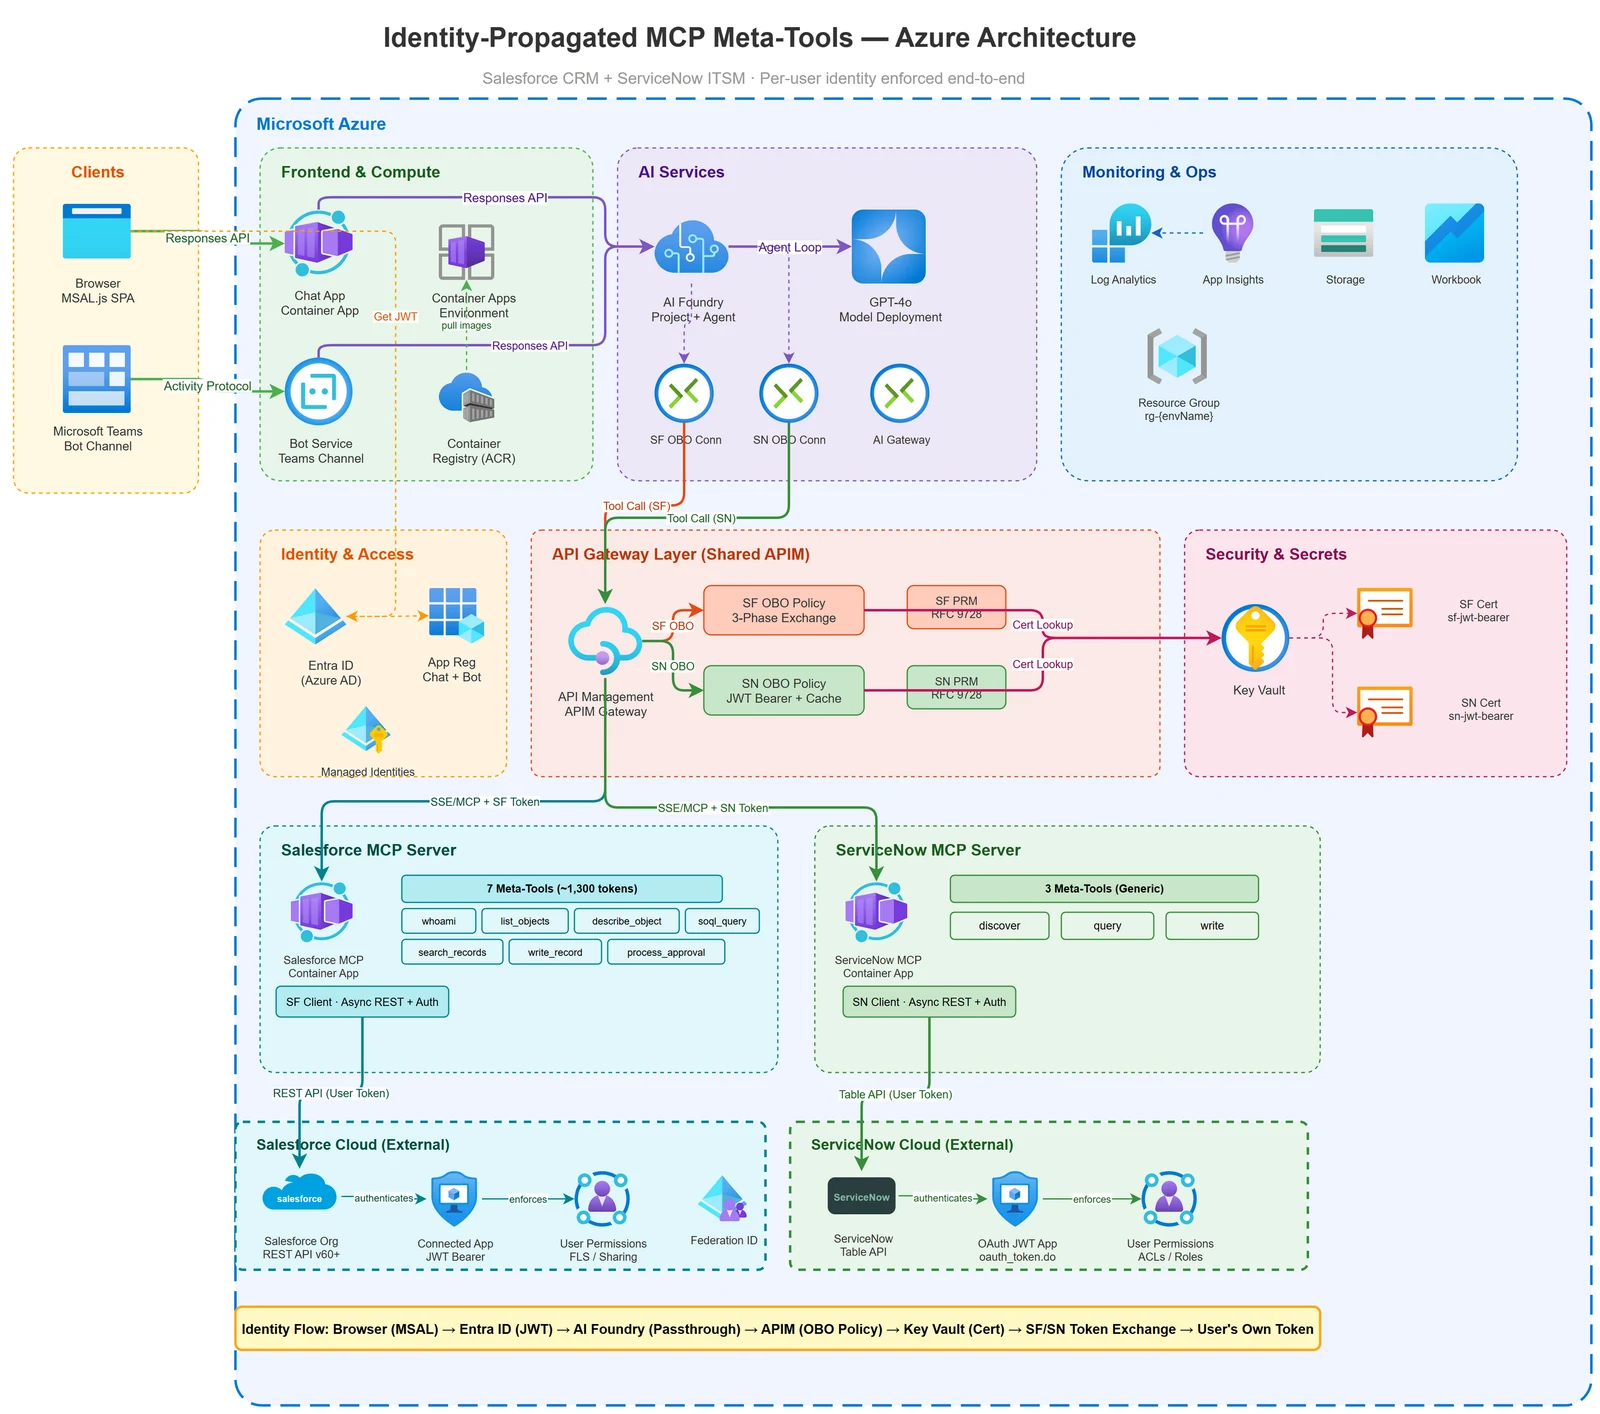
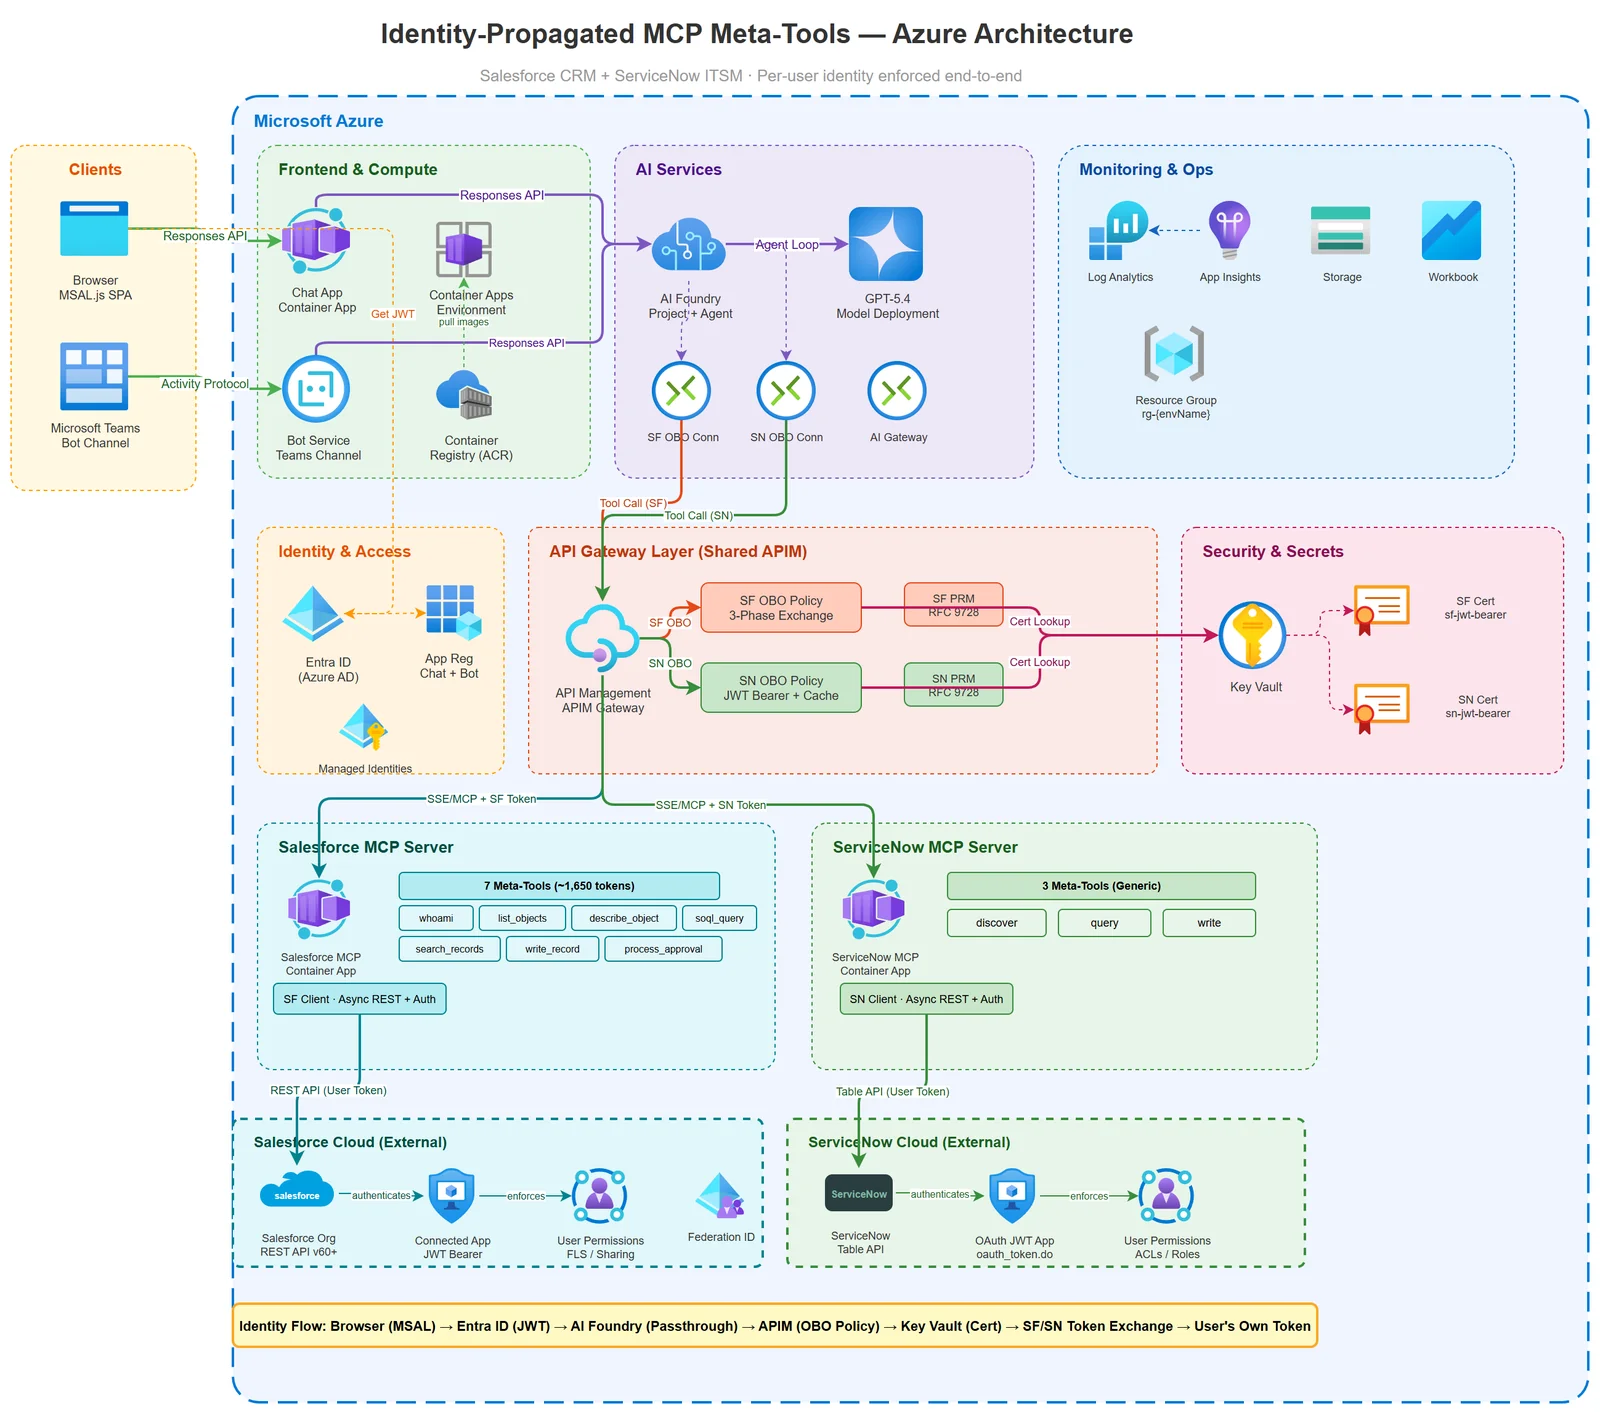
docs: refresh token figure and architecture diagram
- Measure the live tool surface from tools/list with the o200k_base
  tokenizer: 7 tool definitions ~1,650 tokens, ~2,150 with the server
  instructions. Update README, docs/deepdive.md and CHANGELOG (the old
  ~1,300 figure and the 6-tool character estimate were stale).
- Architecture diagram: model label GPT-4o -> GPT-5.4 (the deployed model)
  and the tools box ~1,300 -> ~1,650 tokens; re-export the PNG and the
  project-page WebP (same 1600x1414 size).

Copilot-Session: 00fb86e1-11f3-4976-bf02-8a2e82012174

diff --git a/docs/deepdive.md b/docs/deepdive.md
@@ -55,14 +55,16 @@ The user asks: *"Show me my open opportunities worth over $100k"*
 
 ### Why This Scales
 
-The tool surface is **fixed**: seven tools, ~1,300 tokens. Whether the org has 50 objects or 5,000, the MCP server definition doesn't change.
+The tool surface is **fixed**: seven tools, ~1,650 tokens of tool definitions (plus ~500 tokens of server instructions). Whether the org has 50 objects or 5,000, the MCP server definition doesn't change.
 
 | Approach | Token cost | Coverage |
 |----------|------------|----------|
 | Full OpenAPI spec | 5,000-15,000 | Hundreds of endpoints, most irrelevant |
 | RAG documentation chunks | 2,000-10,000 | Partial, depends on retrieval quality |
 | One tool per object | ~500 x N objects | Scales linearly, N can be 100+ |
-| **This MCP server** | **~1,300 fixed** | **All objects, all fields, all operations** |
+| **This MCP server** | **~1,650 fixed** | **All objects, all fields, all operations** |
+
+*This server's figure: tool names, descriptions and JSON parameter schemas as returned by `tools/list`, counted with the o200k_base tokenizer (October 2026).*
 
 ---
 

diff --git a/CHANGELOG.md b/CHANGELOG.md
@@ -20,10 +20,15 @@ All notable changes to this project are documented here. The format follows
 - **README:** rewritten business-first: build the engagement layer once, let one
   agent act across all your systems of record, as the signed-in user. The
   env-var, project-structure and troubleshooting tables moved to
-  `docs/installation.md`. Per-tool token counts are replaced by a reproducible
-  estimate from `scripts/measure-tokens.py`.
+  `docs/installation.md`. Per-tool token counts are replaced by one measured
+  figure: ~1,650 tokens for the seven tool definitions (~2,150 with the server
+  instructions), counted from the server's `tools/list` with the o200k_base
+  tokenizer.
 - **Docs:** `docs/teams-integration.md` now describes the automated Teams
   publishing path and the v2 token audience (`api://<MCP_OAUTH_CLIENT_ID>`).
+- **Docs:** `docs/deepdive.md` and the architecture diagram
+  (`docs/diagrams/azure-architecture.*`, `site/assets/architecture.webp`) now
+  show that measured figure and the `gpt-5.4` model deployment (was "GPT-4o").
 
 ### Fixed
 

diff --git a/README.md b/README.md
@@ -145,7 +145,7 @@ APIM handles a three-phase exchange: validate the Azure AD JWT, resolve the Sale
 | `write_record` | Create, update, upsert (by external ID), delete |
 | `process_approval` | Submit, approve, reject via Salesforce approval workflows |
 
-Tool definitions plus server instructions come to roughly 1.6K tokens per model call, whatever the size of the org (character-based estimate: `python scripts/measure-tokens.py`). Field schemas are loaded on demand through `describe_object` rather than pre-loaded into the system prompt.
+The seven tool definitions come to roughly 1.65K tokens per model call (about 2.1K with the server instructions), whatever the size of the org. Measured from the server's `tools/list` with the o200k_base tokenizer (October 2026); details in [docs/deepdive.md](docs/deepdive.md#why-this-scales). Field schemas are loaded on demand through `describe_object` rather than pre-loaded into the system prompt.
 
 ### Deep Dive
 
